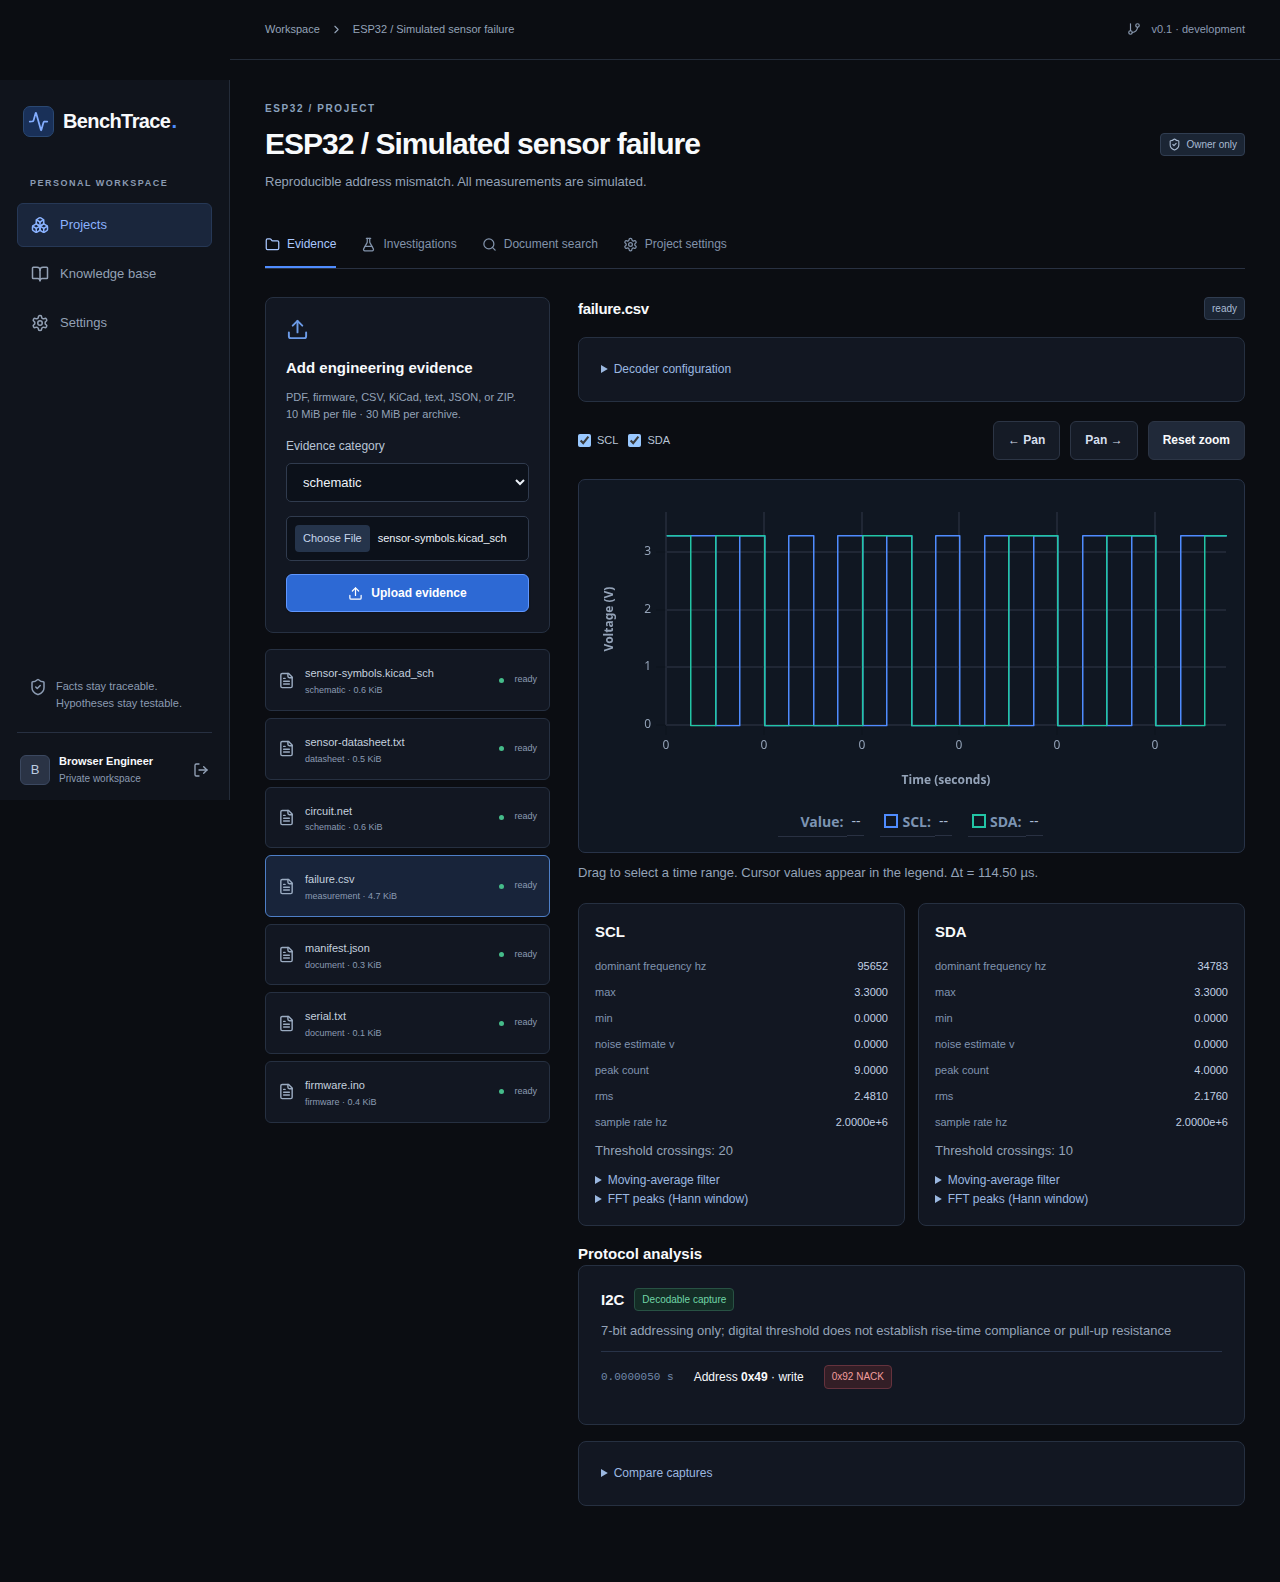
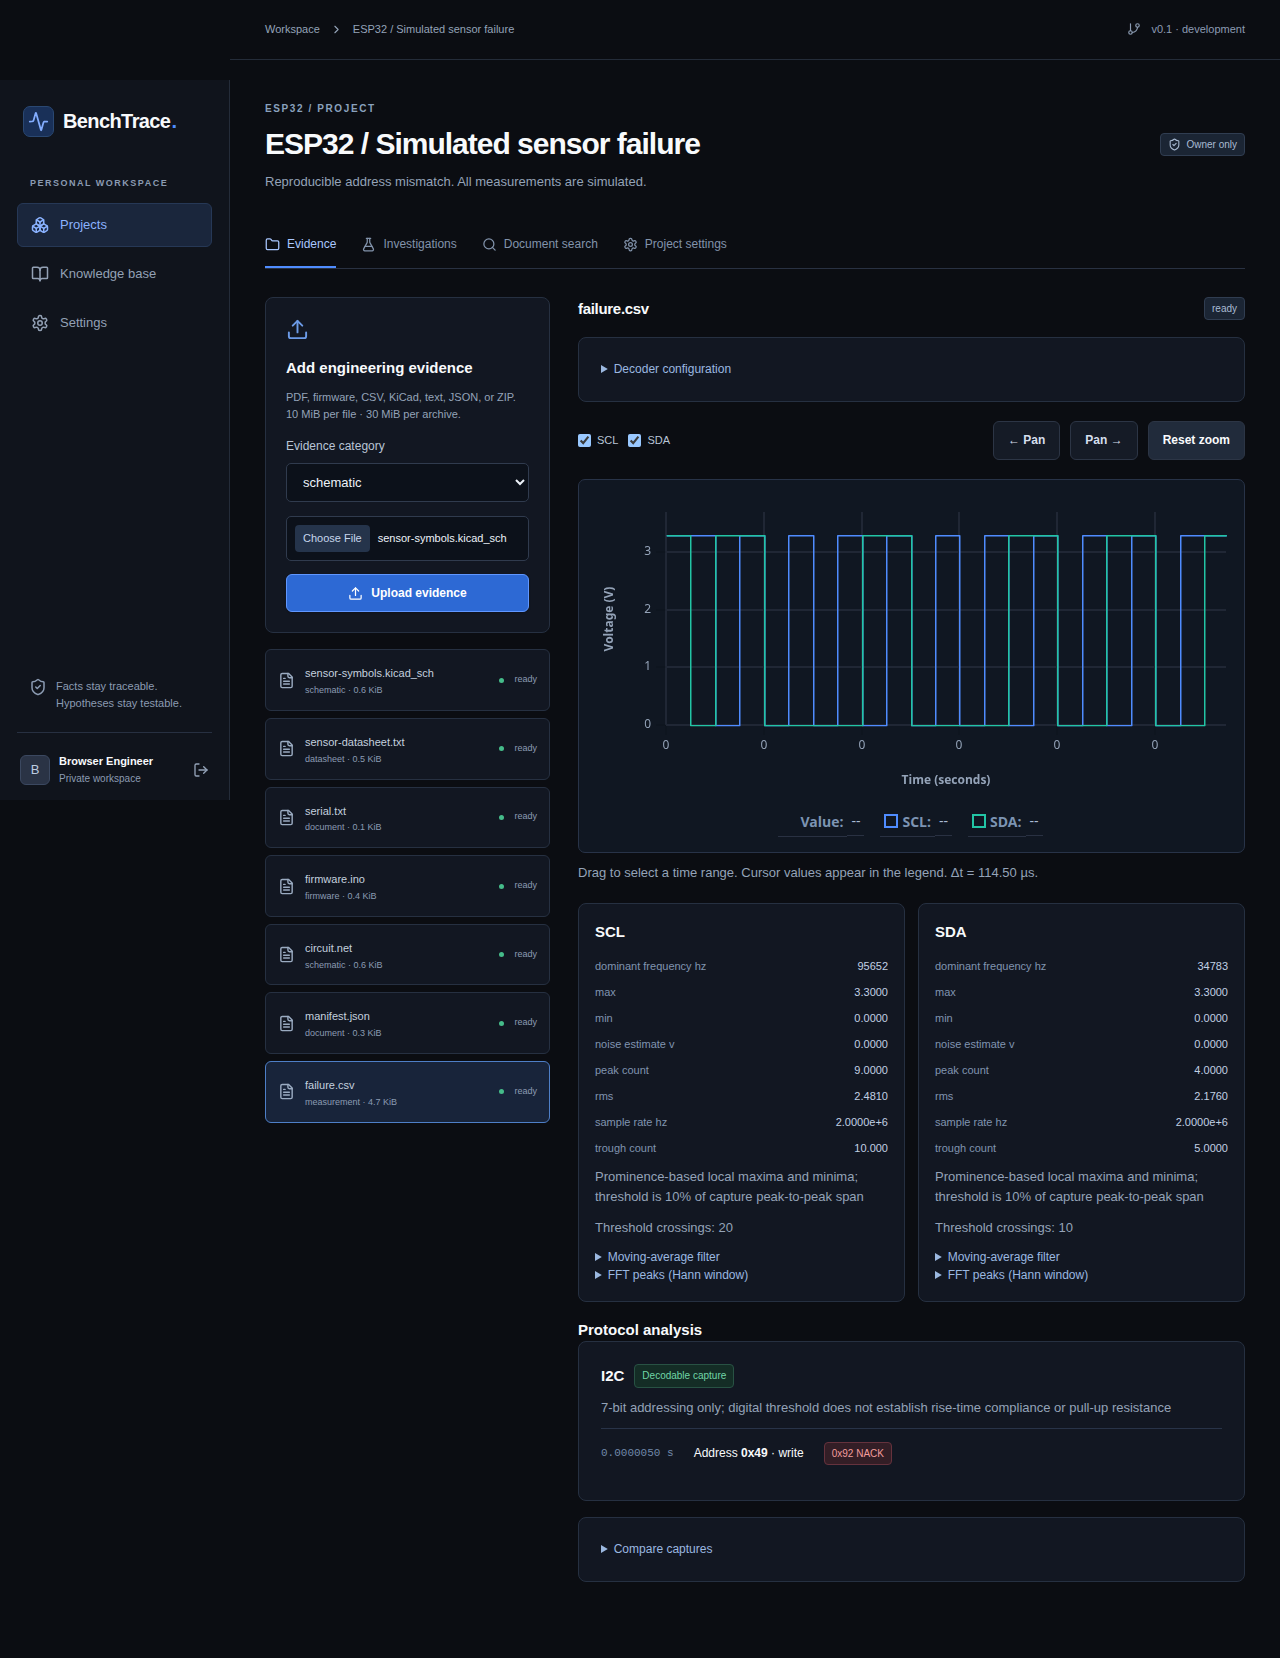
feat: report waveform trough counts

diff --git a/frontend/src/Waveform.tsx b/frontend/src/Waveform.tsx
@@ -144,6 +144,7 @@ export function Waveform({ analysis: a }: { analysis: any }) {
                     "rms",
                     "sample_rate_hz",
                     "peak_count",
+                    "trough_count",
                     "noise_estimate_v",
                     "dominant_frequency_hz",
                   ].includes(k),
@@ -157,6 +158,9 @@ export function Waveform({ analysis: a }: { analysis: any }) {
                   </div>
                 ))}
             </dl>
+            <p className="muted">
+              {a.channels[n].statistics.extrema_method}
+            </p>
             <p className="muted">
               Threshold crossings: {a.channels[n].threshold_crossings}
             </p>

diff --git a/frontend/e2e/workflow.spec.ts b/frontend/e2e/workflow.spec.ts
@@ -77,6 +77,7 @@ test("complete engineering investigation in the browser", async ({ page }) => {
     .filter({ hasText: "failure.csv" })
     .click();
   await expect(page.locator(".uplot")).toBeVisible();
+  await expect(page.getByText("trough count", { exact: true })).toHaveCount(2);
   const channel = page.getByRole("checkbox", { name: "SDA", exact: true });
   await channel.uncheck();
   await expect(channel).not.toBeChecked();

diff --git a/ai-engine/app/signals.py b/ai-engine/app/signals.py
@@ -28,10 +28,13 @@ def stats(t, y):
     dt = np.diff(t)
     uniform = bool(np.max(abs(dt - np.median(dt))) <= np.median(dt) * .01)
     filtered = np.convolve(y, np.ones(5)/5, mode='valid') if len(y) >= 5 else y
-    peaks, _ = find_peaks(y, prominence=max(float(np.ptp(y))*.1, 1e-12))
+    prominence=max(float(np.ptp(y))*.1, 1e-12)
+    peaks, _ = find_peaks(y, prominence=prominence)
+    troughs, _ = find_peaks(-y, prominence=prominence)
     result = dict(min=float(min(y)), max=float(max(y)), mean=float(np.mean(y)), rms=float(np.sqrt(np.mean(y*y))),
                   sample_rate_hz=float(1/np.median(dt)), sampling_uniform=uniform,
                   sampling_jitter_fraction=float(np.std(dt)/np.mean(dt)), peak_count=len(peaks),
+                  trough_count=len(troughs), extrema_method='Prominence-based local maxima and minima; threshold is 10% of capture peak-to-peak span',
                   noise_estimate_v=float(np.median(abs(np.diff(y)-np.median(np.diff(y))))/.67448975/np.sqrt(2)),
                   noise_method='Robust first-difference estimate; edges and correlated noise can bias it',
                   moving_average=filtered[::max(1,len(filtered)//1000)].tolist(),

diff --git a/ai-engine/tests/test_signals.py b/ai-engine/tests/test_signals.py
@@ -30,6 +30,8 @@ def test_fft_sampling_peaks_noise():
     assert s['dominant_frequency_hz']==pytest.approx(1000)
     assert s['sample_rate_hz']==pytest.approx(10000)
     assert s['peak_count']==100
+    assert s['trough_count']==100
+    assert '10% of capture peak-to-peak span' in s['extrema_method']
     noise=np.random.default_rng(4).normal(0,.05,100000)
     assert stats(np.arange(len(noise))*.001,noise)['noise_estimate_v']==pytest.approx(.05,rel=.03)
 

diff --git a/ROADMAP.md b/ROADMAP.md
@@ -70,4 +70,8 @@ Extended `.kicad_sch` extraction to read embedded library symbol pin numbers, na
 
 ## Milestone 8 — visible KiCad pin evidence
 
-Added declared pin metadata to both the uploaded schematic evidence view and the project component browser. The views distinguish symbol pin metadata from net connectivity, and the component browser scrolls its wide table within the panel on mobile so columns remain readable. Expanded the complete browser workflow to upload the simulated KiCad symbol file, verify extracted pin evidence, and browse the same component at project scope. Verification: frontend build and **2 unit tests passed**; browser suite **4 passed**. An earlier run exposed a stale toast assertion and mobile table overflow; the test flow and layout are corrected. The tests also refreshed desktop and mobile screenshots. CI for this milestone is pending.
+Added declared pin metadata to both the uploaded schematic evidence view and the project component browser. The views distinguish symbol pin metadata from net connectivity, and the component browser scrolls its wide table within the panel on mobile so columns remain readable. Expanded the complete browser workflow to upload the simulated KiCad symbol file, verify extracted pin evidence, and browse the same component at project scope. Verification: frontend build and **2 unit tests passed**; browser suite **4 passed**. An earlier run exposed a stale toast assertion and mobile table overflow; the test flow and layout are corrected. The tests also refreshed desktop and mobile screenshots. Full CI run **43378902991 passed** for the pin view and mobile-scrolling revision.
+
+## Milestone 9 — waveform extrema visibility
+
+Signal statistics now count local maxima and minima using the same 10%-of-peak-to-peak prominence threshold, label the method, and display both counts in the waveform workspace. Added an engine assertion for a known 1 kHz, 100-cycle signal and an end-to-end browser assertion for both channels. Verification: engine suite **59 passed** (one upstream deprecation warning); frontend build and **2 unit tests passed**; browser suite **4 passed**. A first browser attempt exposed an ambiguous selector because two channels correctly render the same metric label; it now asserts both rows. CI is pending.

diff --git a/docs/REQUIREMENTS.md b/docs/REQUIREMENTS.md
@@ -17,7 +17,7 @@ Status describes demonstrated behavior, not the presence of a UI or a test name.
 | Structured specs, pin descriptions, voltage and timing | Explicit ranges/quantities, units, conditions, pins and protocols with page/excerpt provenance | Implemented and unit-tested; full extraction API regression passed |
 | Document summaries | Extractive first-page summary | Implemented with explicit method |
 | CSV, visualization, zoom/pan/selection | uPlot browser test, parsed capture fixtures | Verified browser channel selection, pan/reset and mobile width assertions |
-| Voltage/frequency/peaks/noise/sampling/FFT/filter/threshold/comparison | Numerical unit tests; viewer metrics, FFT, comparison API | Implemented filtered display; numerical tests and comparison API integration passed |
+| Voltage/frequency/peaks/noise/sampling/FFT/filter/threshold/comparison | Numerical unit tests; viewer metrics, FFT, comparison API | Implemented prominence-based positive and negative extrema, filtered display and comparison; numerical tests and comparison API integration passed |
 | I2C, UART, SPI with sampling guards | Known waveform tests, four SPI modes, UART framing, I2C ACK/NACK | Implemented bounded modes; extend transition/timing edge-case tests |
 | Firmware functions/GPIO/protocol/init/delay/error handling | Comment/string-aware static patterns with line citations | Expanded constant resolution, pin-conflict and invalid-address explanations; targeted tests added, broader C/C++ static-analysis coverage remains |
 | KiCad components, pins, nets, power graph | `.net` connectivity, `.kicad_sch` component properties and embedded library pin metadata, labels, interactive net graph | Supported subset appears in evidence and component views; unit/API/browser checks cover pin metadata; pin connectivity requires exported `.net`; no schematic wire-geometry claim |

diff --git a/README.md b/README.md
@@ -10,7 +10,7 @@ BenchTrace is an open-source investigation workspace for hardware and embedded f
 
 - Keeps private projects, files, investigations, observations and reports in a persistent workspace.
 - Extracts PDF/text evidence with page references and searches it using a local semantic embedding model and pgvector.
-- Analyzes sampled CSV waveforms: voltage statistics, sampling quality, FFT, noise estimates and bounded I2C/UART/SPI decoding.
+- Analyzes sampled CSV waveforms: voltage statistics, sampling quality, prominence-based peak and trough counts, FFT, noise estimates and bounded I2C/UART/SPI decoding.
 - Finds recognizable Arduino firmware configuration and imports KiCad netlist connectivity plus embedded schematic pin metadata.
 - Ranks competing hypotheses using a documented evidence rule, with supporting sources, contradictions, unknowns and confirm/reject experiments.
 - Records user-performed tests, preserves investigation history, exports Markdown reports and saves reusable knowledge.
